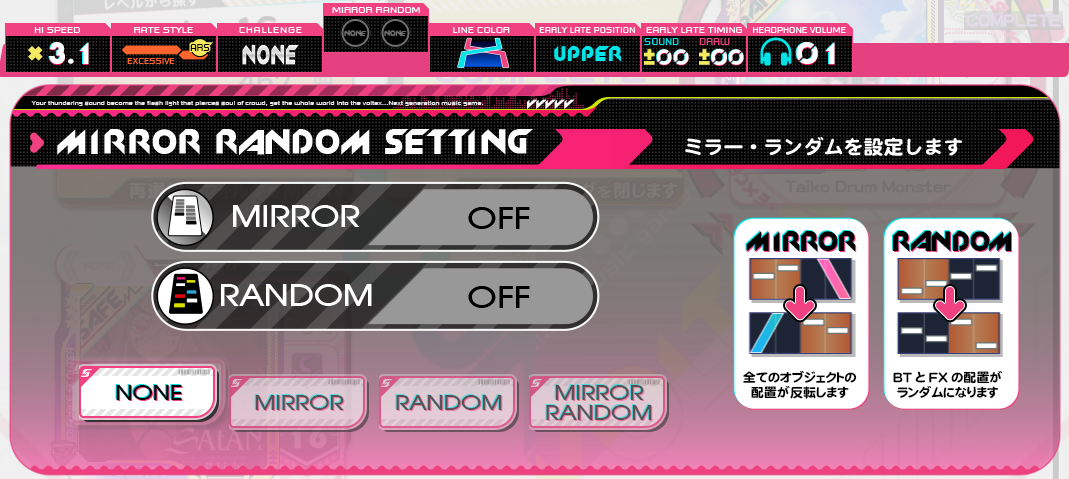
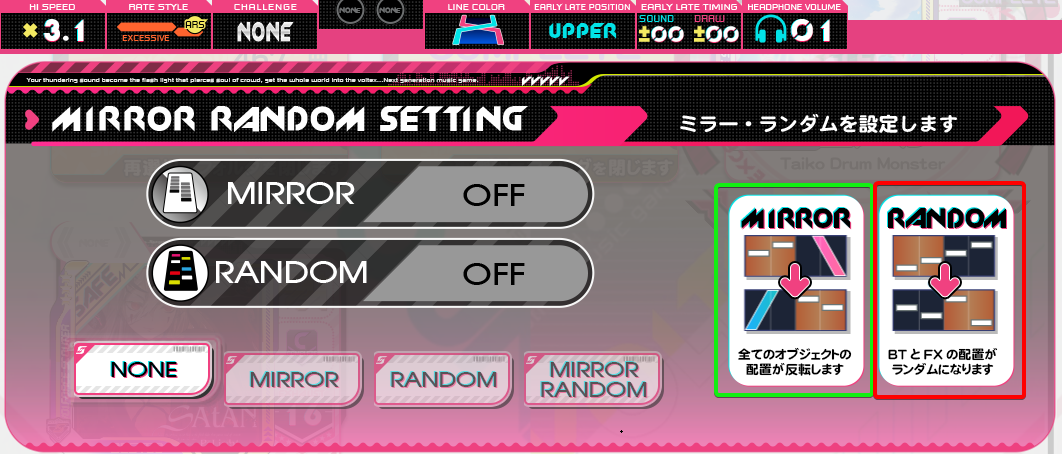
half of the user setting done

diff --git a/index.html b/index.html
@@ -335,7 +335,21 @@
         <img src="img/options_ratestyle.png" alt = "Rate style menu">
         <p>L'<b>EFFECTIVE RATE</b> ou l'<b>EXCESSIVE RATE</b> en <b>LIGHT START</b> met fin a votre crédit si vous <b>CRASHEZ</b> votre track, tandis que le <b>STANDARD START</b> vous permet de <b>CRASH</b> et de ne pas provoquer un arrêt de jeu </p>
         <p>L'<b>EXCESSIVE RATE + ARS</b> est seulement disponible en <b>STANDARD START</b> et permet de basculer sur l'<b>EFFECTIVE RATE</b> si jamais vous tombez a 0% de l'<b>EXCESSIVE RATE</b></p>
+        <h3>&nbsp;&nbsp;► Challenge options</h3>
+        <p>Uniquement pendant un <b>PREMIUM TIME</b> , vous avez la possibilité de vous mettre un <b>"challenge"</b>. Il se choisit entre : <b>AAA</b>, <b>AAA+</b>, <b>S</b>, <b>UC</b> et <b>PUC</b>. Le challenge à pour rôle de de vous faire automatiquement recomencer votre track si votre challenge est raté. Exemple, si votre challenge est mis sur <b>UC</b> et que vous faites une <b>erreur</b>, vous recommencerez automatiquement au début de la track.</p>
+        <img src="img/options_challenge.png" alt ="Challenge menu">
+        <p>/!\ Si vous n'appuyez pas sur <b>00</b>, rater votre challenge vous fera seulement crash et non restart automatiquement</p>
+        <h3>&nbsp;&nbsp;► Mirror/Random</h3>
+        <p>Le mode <b>Mirror</b> permet au joueur d'inverser la disposition droite/gauche de la ligne de jeu, <b>(encadré vert)</b>. Le mode <b>Random</b> permet au joueur de mettre les notes dans un désodre aléatoire <b>(encadré rouge)</b>. Ces deux modes peuvent aussi être combinés.</p>
+        <img src="img/options_mirror.png" alt = "Mirror menu">
+        <p>Le mode <b>Mirrior</b> peut s'avérer utile sur des tracks qui mobilisent une main en particulier et que le joueur est plus à l'aise avec son autre main. Le mode <b>Random</b> n'est jamais un avantage comme chaque try est différent, il est difficile de construire une mémoire musculaire et visuelle de la chart. Ce mode est principalement utilisé pour le fun.</p>
+        <h3>&nbsp;&nbsp;► Line Color</h3>
+        <p>Les paramètres offrent la possibilité de changer la couleur des lazers gauche et droit, si vous n'êtes pas à l'aise avec les couleurs par défault vous pourrez changer parmi <b>Bleu</b>, <b>Rouge</b>, <b>Jaune</b> et <b>Vert</b>.</p>   
+        <img src="img/options_linecolor.png" alt = "Line color menu">
+
+    
     </div>
+
 
 
 
